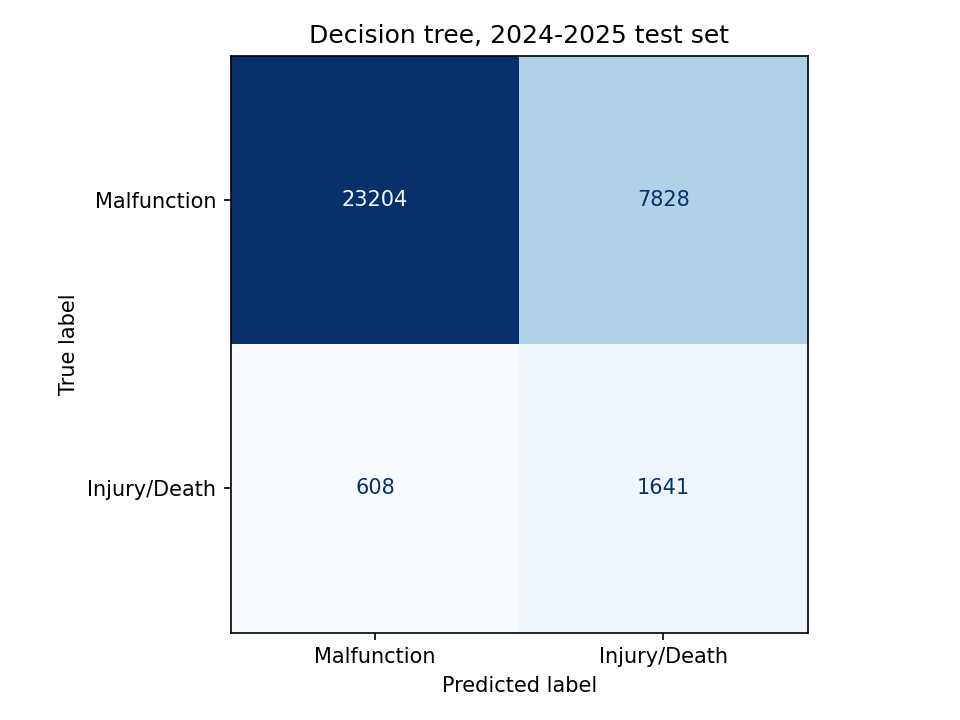
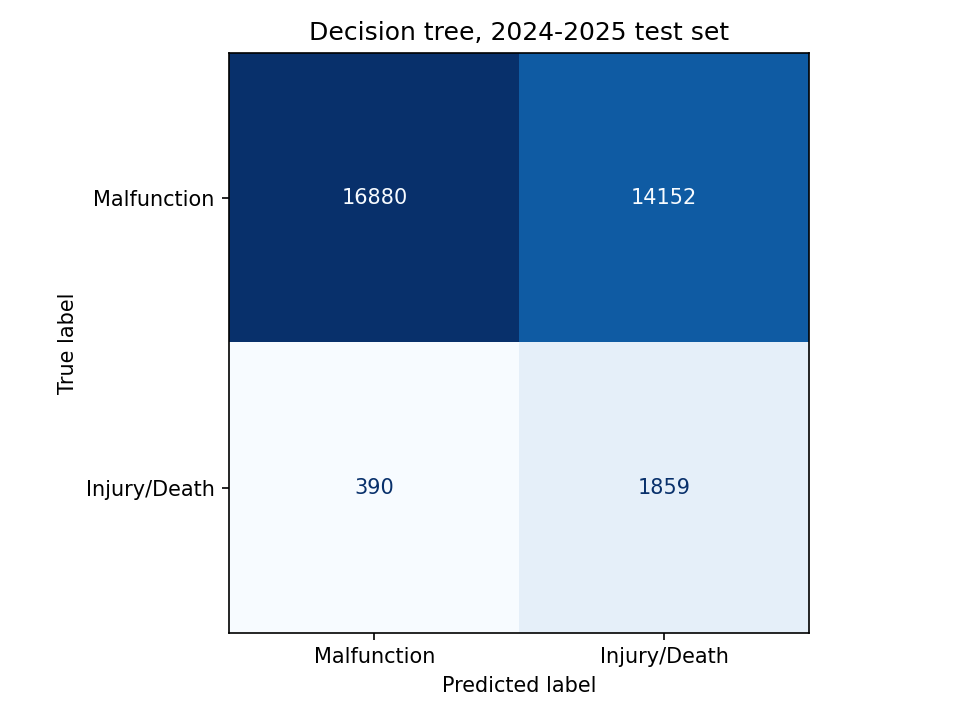
Add device, user, setting features and findings charts

diff --git a/findings.py b/findings.py
@@ -1,0 +1,154 @@
+# Answers our research question with simple comparisons:
+# for each device, user, and setting factor, what share of reports involve injury or death?
+#
+#   python findings.py
+#
+# Makes charts for all devices and for insulin pumps only:
+#   figures/findings_device.png, findings_user.png, findings_setting.png
+#   figures/findings_device_pumps.png, ... (same charts, pumps only)
+# and saves every number to data/processed/findings.csv
+#
+# These are shares among REPORTS, not risk per device or per patient.
+# MAUDE has no count of how many people use each device, so word findings
+# as "more common among injury reports", not "causes" or "riskier".
+
+import math
+import textwrap
+
+import matplotlib
+matplotlib.use("Agg")
+import matplotlib.pyplot as plt
+import pandas as pd
+
+import config
+
+fig_dir = config.ROOT / "figures"
+
+device_types = {
+    "LZG": "Insulin pump", "QFG": "Insulin pump", "QJI": "Insulin pump",
+    "QBJ": "CGM sensor", "MDS": "CGM sensor",
+    "NBW": "Blood glucose meter",
+}
+
+part_cols = ["part_battery", "part_tubing", "part_cartridge", "part_sensor", "part_transmitter",
+             "part_adhesive", "part_inserter", "part_screen_buttons", "part_software_app",
+             "part_receiver"]
+
+# the three parts of our research question: {group: {chart title: column}}
+factor_groups = {
+    "device": {
+        "Device type": "device_type",
+        "Manufacturer": "device_manufacturer",
+        "Problem code": "product_problems",   # several per report, handled separately
+        "Part mentioned in description": "parts",  # from the part_ columns
+        "Usage (first use / reuse)": "previous_use_code",
+        "Labeled single use": "single_use_flag",
+    },
+    "user": {
+        "Device operator": "device_operator",
+        "Reporter occupation": "reporter_occupation_code",
+        "Patient age group": "age_group",
+        "Patient sex": "patient_sex",
+        "Patient race": "patient_race",
+        "Patient ethnicity": "patient_ethnicity",
+    },
+    "setting": {
+        "Event location": "event_location",
+        "Reporter is a health professional": "health_professional",
+    },
+}
+
+max_rows = 12  # most values shown per chart (the most common ones)
+
+
+def load():
+    df = pd.read_csv(config.PROCESSED_DIR / "events_clean.csv", dtype=str, keep_default_na=False)
+    df["label"] = df["label"].astype(int)
+    df["device_type"] = df["product_code"].map(device_types).fillna("Other")
+    for c in part_cols:
+        df[c] = df[c].astype(int)
+    return df
+
+
+# 95% confidence interval for a share (Wilson interval, works for small counts too)
+def wilson(share, n, z=1.96):
+    center = (share + z * z / (2 * n)) / (1 + z * z / n)
+    half = z * math.sqrt(share * (1 - share) / n + z * z / (4 * n * n)) / (1 + z * z / n)
+    return center - half, center + half
+
+
+# injury/death share and report count for each value of one factor
+def factor_table(df, col, min_n):
+    if col == "product_problems":
+        # a report can have several problems, so count it under each one
+        long = df[["label", col]].assign(value=df[col].str.split("|")).explode("value")
+        long = long[long["value"] != ""]
+    elif col == "parts":
+        # share among reports that mention each part
+        long = pd.concat([df.loc[df[c] == 1, ["label"]].assign(value=c.replace("part_", ""))
+                          for c in part_cols])
+    else:
+        long = df[["label"]].assign(value=df[col].replace("", "Unknown"))
+
+    t = long.groupby("value")["label"].agg(share="mean", n="count").reset_index()
+    t = t[t["n"] >= min_n].sort_values("n", ascending=False).head(max_rows)
+    t[["low", "high"]] = t.apply(lambda r: pd.Series(wilson(r["share"], r["n"])), axis=1)
+    return t.sort_values("share")
+
+
+def plot_group(df, group, suffix, min_n):
+    overall = df["label"].mean()
+    tables = {}
+    for title, col in factor_groups[group].items():
+        t = factor_table(df, col, min_n)
+        if len(t) >= 2:  # nothing to compare with only one value
+            tables[title] = t
+    if not tables:
+        return []
+
+    heights = [len(t) + 1.5 for t in tables.values()]
+    fig, axes = plt.subplots(len(tables), 1, figsize=(9, 0.32 * sum(heights) + 1),
+                             gridspec_kw={"height_ratios": heights}, squeeze=False)
+    for ax, (title, t) in zip(axes[:, 0], tables.items()):
+        labels = [textwrap.shorten(str(v), 45) + f"  (n={n:,})" for v, n in zip(t["value"], t["n"])]
+        err = [t["share"] - t["low"], t["high"] - t["share"]]
+        ax.barh(labels, t["share"], xerr=err, color="#c0504d", ecolor="gray", capsize=2)
+        ax.axvline(overall, color="black", linestyle="--", linewidth=1)
+        ax.set_title(title, loc="left", fontsize=10)
+        ax.xaxis.set_major_formatter(matplotlib.ticker.PercentFormatter(1.0))
+        ax.tick_params(axis="y", labelsize=8)
+
+    where = "insulin pumps only" if suffix else "all devices"
+    fig.suptitle(f"Share of reports involving injury or death: {group} factors ({where})\n"
+                 f"dashed line = overall share ({overall:.1%}), bars show 95% intervals",
+                 fontsize=11)
+    fig.tight_layout()
+    fig.savefig(fig_dir / f"findings_{group}{suffix}.png", dpi=150)
+    plt.close(fig)
+
+    # keep the numbers for the README
+    return [t.assign(group=group, factor=title, devices=where) for title, t in tables.items()]
+
+
+if __name__ == "__main__":
+    df = load()
+    fig_dir.mkdir(exist_ok=True)
+    pumps = df[df["device_type"] == "Insulin pump"]
+
+    all_rows = []
+    # pumps have fewer reports, so allow smaller groups there
+    for data, suffix, min_n in [(df, "", 100), (pumps, "_pumps", 50)]:
+        print(f"\n{'pumps only' if suffix else 'all devices'}: {len(data):,} reports, "
+              f"injury/death share {data['label'].mean():.3f}")
+        for group in factor_groups:
+            rows = plot_group(data, group, suffix, min_n)
+            all_rows += rows
+            # print the highest and lowest share for each factor
+            for t in rows:
+                hi, lo = t.iloc[-1], t.iloc[0]
+                print(f"  {t['factor'].iloc[0]}: highest {hi['value']} ({hi['share']:.1%}, n={hi['n']:,}), "
+                      f"lowest {lo['value']} ({lo['share']:.1%}, n={lo['n']:,})")
+
+    out = pd.concat(all_rows)[["devices", "group", "factor", "value", "n", "share", "low", "high"]]
+    out.round(4).to_csv(config.PROCESSED_DIR / "findings.csv", index=False)
+    print(f"\nsaved charts to {fig_dir.name}/ and numbers to findings.csv")

diff --git a/clean_data.py b/clean_data.py
@@ -50,6 +50,50 @@ df["device_class"] = df["device"].apply(
     lambda d: d[0].get("openfda", {}).get("device_class", "") if isinstance(d, list) and len(d) > 0 else ""
 )
 
+# NEW: more device fields
+df["implant_flag"] = df["device"].apply(lambda d: get_device_field(d, "implant_flag"))
+df["serviced_by_3rd_party"] = df["device"].apply(lambda d: get_device_field(d, "serviced_by_3rd_party_flag"))
+df["device_age"] = df["device"].apply(lambda d: get_device_field(d, "device_age_text"))
+
+# NEW: where it happened, who reported it, and how the device was used (top-level columns)
+new_top_cols = ["event_location", "reporter_occupation_code", "health_professional",
+                "previous_use_code", "single_use_flag", "reprocessed_and_reused_flag"]
+for col in new_top_cols:
+    df[col] = df[col].fillna("").astype(str).replace("", "Unknown")
+
+# NEW: patient fields (first patient on the report)
+# we skip patient_problems and sequence_number_outcome, those give away the label
+def get_patient_field(patients, field):
+    if isinstance(patients, list) and len(patients) > 0:
+        return patients[0].get(field, "") or ""
+    return ""
+
+for field in ["patient_age", "patient_sex", "patient_race", "patient_ethnicity"]:
+    df[field] = df["patient"].apply(lambda p: get_patient_field(p, field))
+
+# ages look like "66 YR", turn them into a number of years
+def age_in_years(text):
+    parts = str(text).upper().split()
+    try:
+        n = float(parts[0])
+    except (IndexError, ValueError):
+        return None  # blank or "NA"
+    unit = parts[1] if len(parts) > 1 else "YR"
+    return n / {"MO": 12, "WK": 52, "DA": 365}.get(unit[:2], 1)
+
+def age_group(text):
+    age = age_in_years(text)
+    if age is None or age <= 0 or age > 110:
+        return "Unknown"
+    if age < 18:
+        return "Under 18"
+    if age < 65:
+        return "18-64"
+    return "65+"
+
+df["age_group"] = df["patient_age"].apply(age_group)
+print(df["age_group"].value_counts())
+
 def get_description(mdr_text):
     if not isinstance(mdr_text, list):
         return ""
@@ -59,13 +103,35 @@ def get_description(mdr_text):
 
 df["event_description"] = df["mdr_text"].apply(get_description)
 
+# NEW: which device parts the description mentions (1 = mentioned, 0 = not)
+# only words that name parts, so the text doesn't give away the label
+parts = {
+    "battery": ["battery", "batteries", "charging", "charger"],
+    "tubing": ["tubing", "infusion set", "cannula", "catheter"],
+    "cartridge": ["cartridge", "reservoir", "cassette"],
+    "sensor": ["sensor"],
+    "transmitter": ["transmitter"],
+    "adhesive": ["adhesive", "patch", "tape"],
+    "inserter": ["inserter", "applicator", "needle"],
+    "screen_buttons": ["screen", "display", "button", "touchscreen"],
+    "software_app": ["software", "app ", "application", "bluetooth", "connection", "update"],
+    "receiver": ["receiver", "reader"],
+}
+part_cols = ["part_" + p for p in parts]
+text = df["event_description"].str.lower()
+for part, words in parts.items():
+    df["part_" + part] = text.apply(lambda t: int(any(w in t for w in words)))
+print("share of reports mentioning each part:")
+print(df[part_cols].mean().round(3))
+
 new_cols = ["product_code", "brand_name", "generic_name", "device_manufacturer",
             "device_operator", "device_class", "event_description"]
 print((df[new_cols] == "").mean().round(4))
 print(df["product_code"].value_counts().head(10))
 
 #handle missing values 
-cat_cols = ["brand_name", "generic_name", "device_manufacturer", "device_operator", "device_class"]
+cat_cols = ["brand_name", "generic_name", "device_manufacturer", "device_operator", "device_class",
+            "implant_flag", "serviced_by_3rd_party", "patient_sex", "patient_race", "patient_ethnicity"]
 for col in cat_cols:
     df[col] = df[col].replace("", "Unknown")
 df["device_operator"] = df["device_operator"].replace({"I": "Unknown", "0": "Unknown"})
@@ -81,7 +147,12 @@ keep_cols = [
     "label", "product_code", "brand_name", "generic_name",
     "device_manufacturer", "device_operator", "device_class",
     "report_source_code", "product_problems", "event_description",
-]
+    # NEW
+    "event_location", "reporter_occupation_code", "health_professional",
+    "implant_flag", "serviced_by_3rd_party", "device_age",
+    "previous_use_code", "single_use_flag", "reprocessed_and_reused_flag",
+    "age_group", "patient_sex", "patient_race", "patient_ethnicity",
+] + part_cols
 clean = df[keep_cols].copy()
 
 #save cleaned dataset 

diff --git a/model.py b/model.py
@@ -5,6 +5,8 @@
 import matplotlib
 matplotlib.use("Agg")  # save plots to files without opening a window
 import matplotlib.pyplot as plt
+import argparse
+
 import pandas as pd
 from sklearn.metrics import ConfusionMatrixDisplay, classification_report, f1_score
 from sklearn.tree import DecisionTreeClassifier
@@ -13,11 +15,30 @@ import config
 
 fig_dir = config.ROOT / "figures"
 
-# one-hot encode these columns
-cat_cols = ["product_code", "device_operator", "device_class", "report_source_code"]
+# one-hot encode these columns, in groups so we can add them one round at a time
+#   python model.py                          all groups
+#   python model.py --groups original        just what we had before
+#   python model.py --groups original setting usage
+feature_groups = {
+    "original": ["product_code", "device_operator", "device_class", "report_source_code"],
+    "setting": ["event_location", "reporter_occupation_code", "health_professional",
+                "implant_flag", "serviced_by_3rd_party"],
+    "usage": ["previous_use_code", "single_use_flag", "reprocessed_and_reused_flag"],
+    "patient": ["age_group", "patient_sex"],
+    "parts": ["part_battery", "part_tubing", "part_cartridge", "part_sensor", "part_transmitter",
+              "part_adhesive", "part_inserter", "part_screen_buttons", "part_software_app",
+              "part_receiver"],
+    # brand is handled like manufacturer (top brands, the rest are "Other"), see build_features
+    "brand": [],
+}
+cat_cols = []  # filled in from --groups when the script runs
+use_brand = False  # set to True when "brand" is in --groups
 
 # manufacturer has a lot of values, so keep the most common ones and call the rest "Other"
 n_manufacturers = 15
+
+# same idea for brand names (the specific pump or monitor, like a certain pump model)
+n_brands = 20
 
 # product_problems can list several problems per report, keep the most common ones as 0/1 columns
 n_problems = 30
@@ -46,6 +67,11 @@ def split(df):
 # the top manufacturers/problems are picked from the training set only so the test set doesn't leak in
 def build_features(train, test):
     top_mfr = train["device_manufacturer"].value_counts().head(n_manufacturers).index
+
+    # brand names are typed by reporters, so clean up case and spaces before counting
+    def clean_brand(df):
+        return df["brand_name"].str.upper().str.strip().str.replace(r"\s+", " ", regex=True)
+    top_brands = clean_brand(train).value_counts().head(n_brands).index
     problem_counts = train["product_problems"].str.split("|").explode().value_counts()
     problem_counts = problem_counts[(problem_counts.index != "") & ~problem_counts.index.isin(drop_problems)]
     top_problems = problem_counts.head(n_problems).index
@@ -53,6 +79,9 @@ def build_features(train, test):
     def features(df):
         X = df[cat_cols].replace("", "Unknown").copy()
         X["manufacturer"] = df["device_manufacturer"].where(df["device_manufacturer"].isin(top_mfr), "Other")
+        if use_brand:
+            brand = clean_brand(df)
+            X["brand"] = brand.where(brand.isin(top_brands), "Other")
         X = pd.get_dummies(X, dtype=int)
         problems = df["product_problems"].str.split("|")
         for p in top_problems:
@@ -87,6 +116,15 @@ def plot_importances(importances):
 
 # run the model and save plots
 if __name__ == "__main__":
+    parser = argparse.ArgumentParser()
+    parser.add_argument("--groups", nargs="+", default=list(feature_groups),
+                        choices=list(feature_groups))
+    args = parser.parse_args()
+    for g in args.groups:
+        cat_cols += feature_groups[g]
+    use_brand = "brand" in args.groups
+    print("feature groups:", ", ".join(args.groups))
+
     df = load()
     train, test = split(df)
     print(f"train: {len(train)} rows, injury/death share {train['label'].mean():.3f}")
